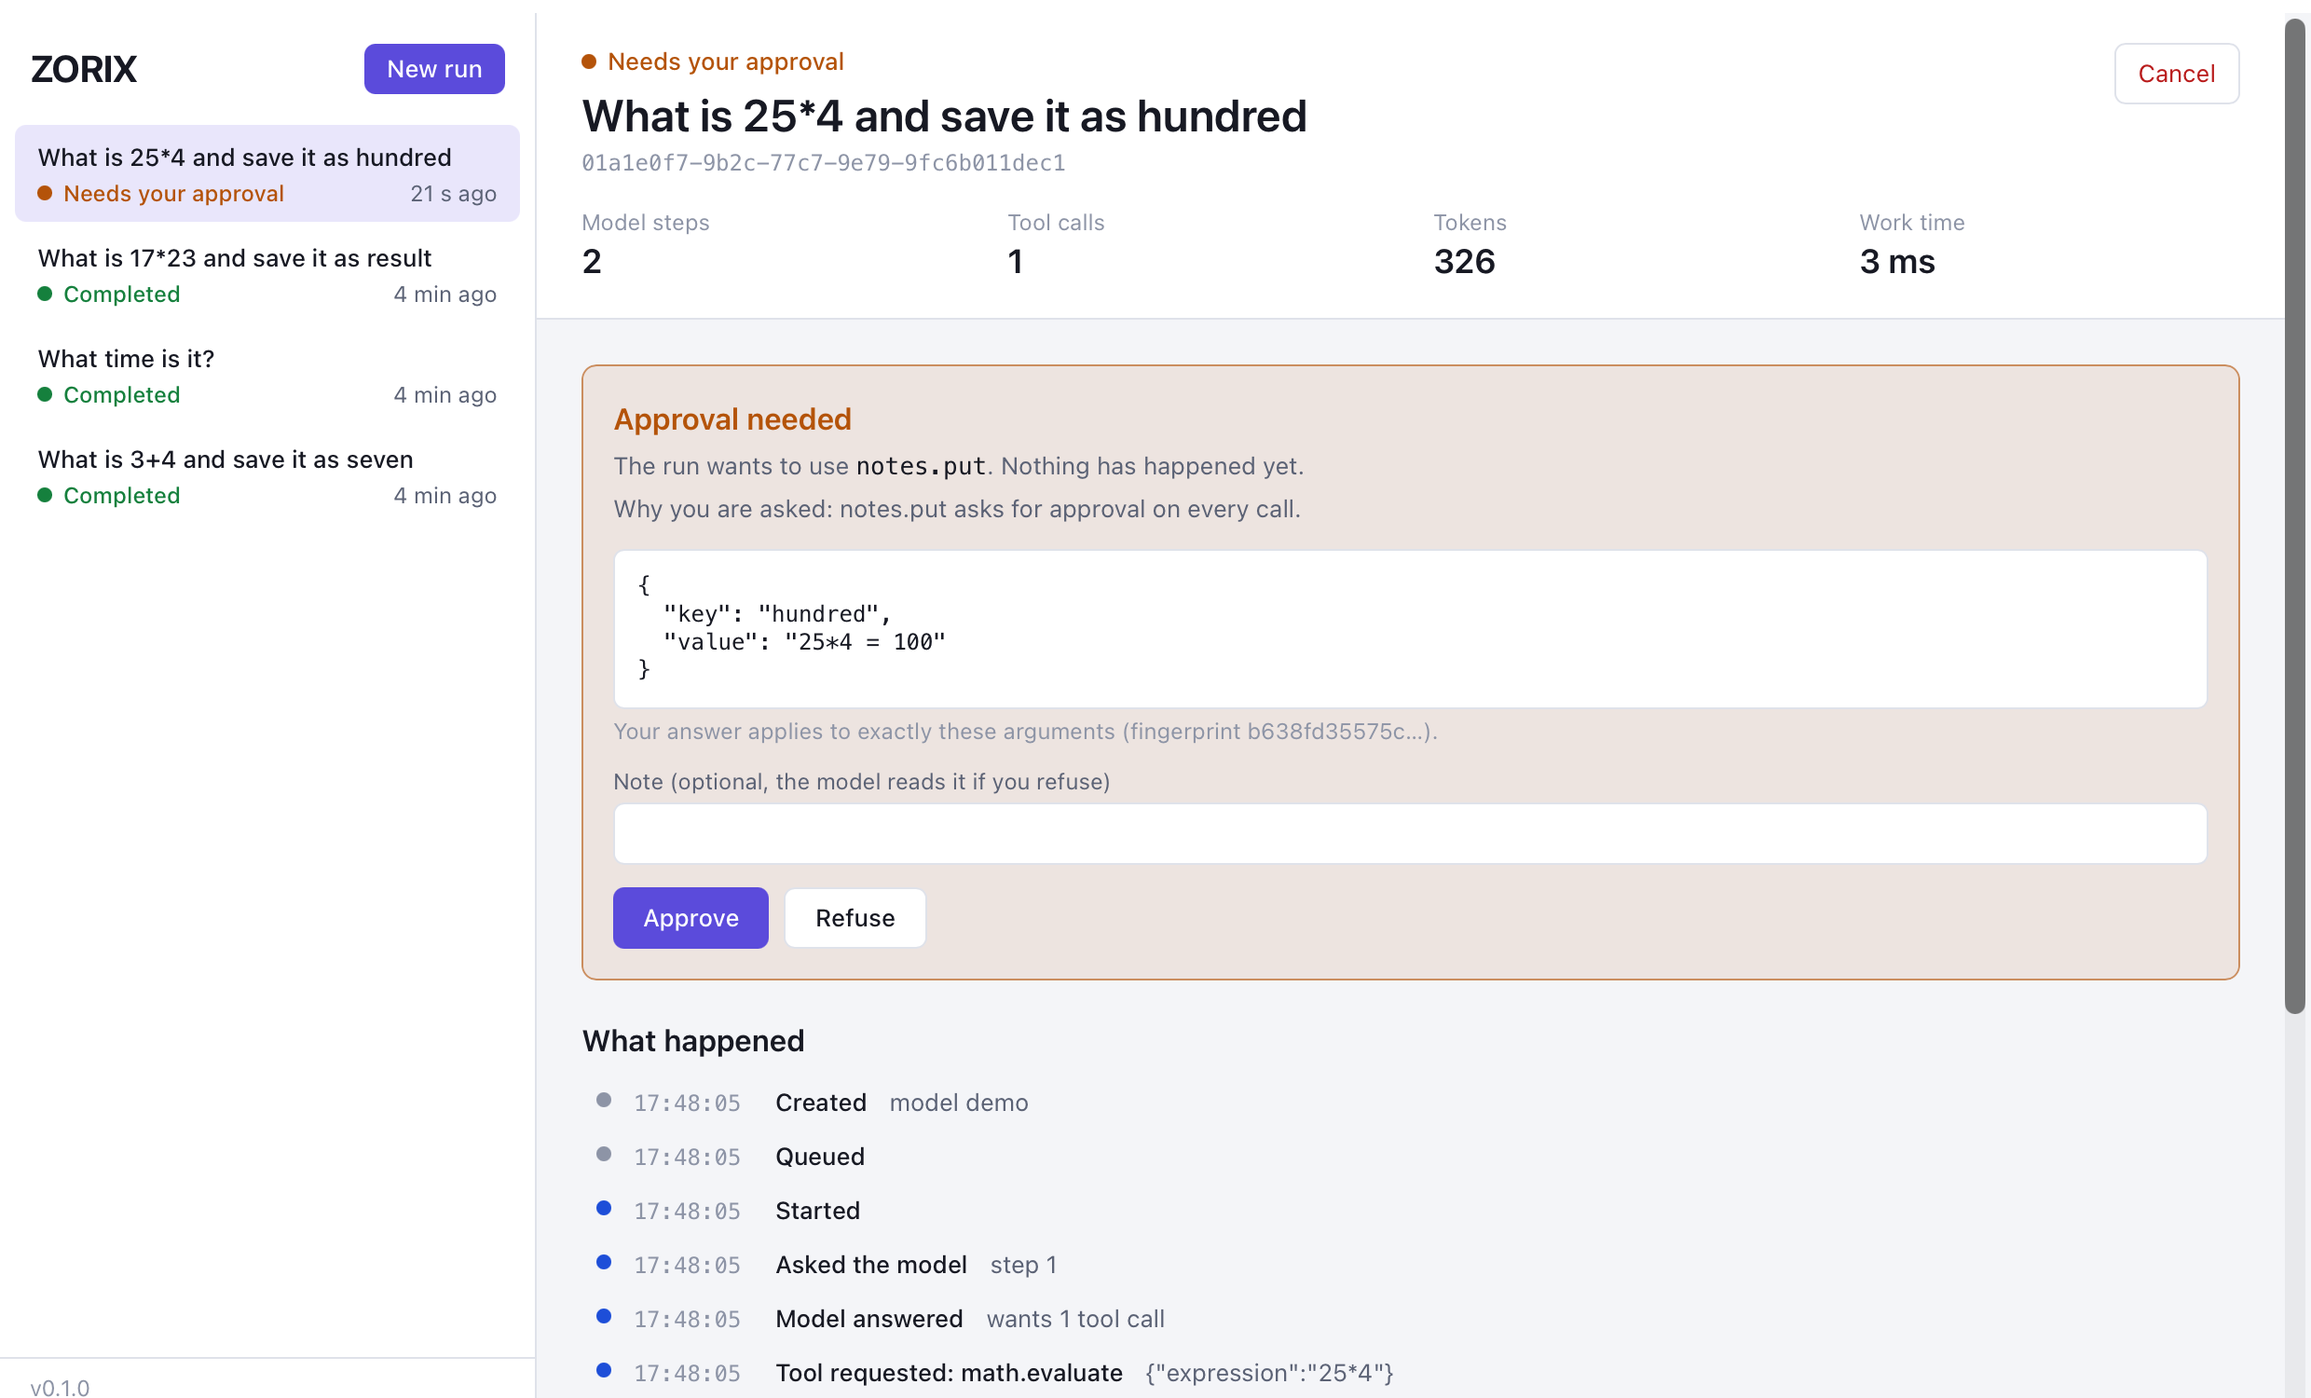
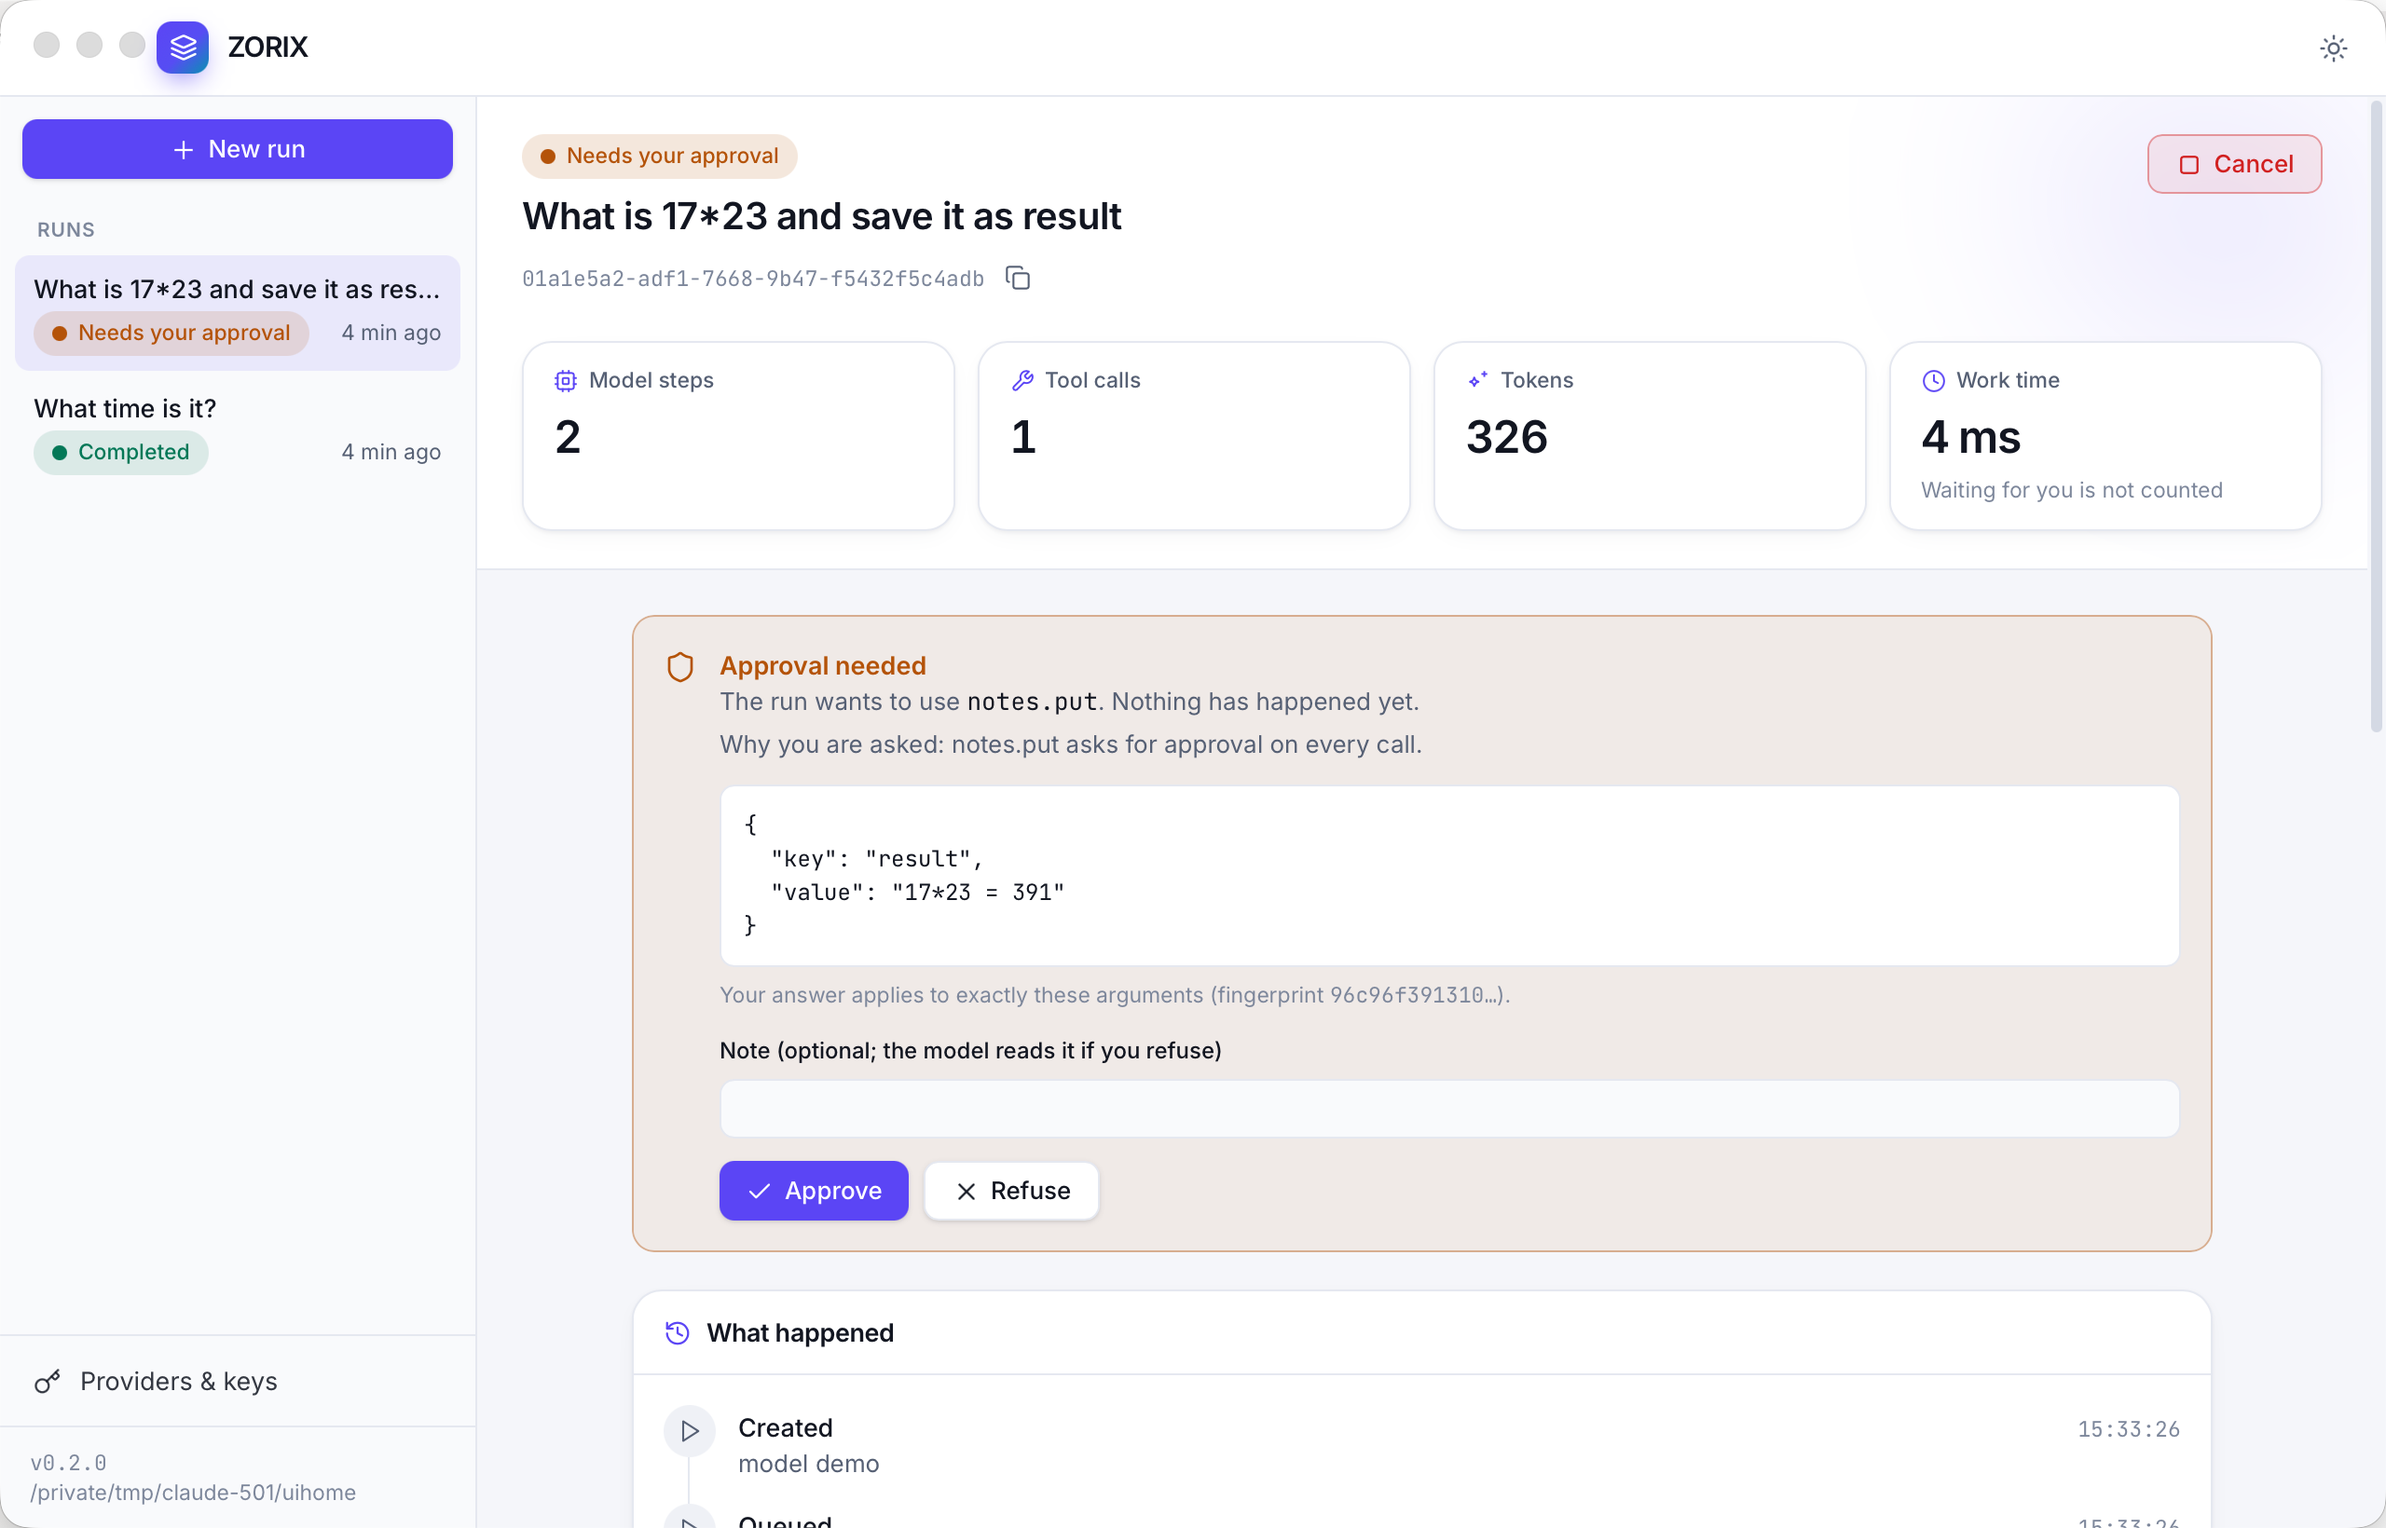
docs: refresh the desktop screenshots and add the providers screen
Taken from the running app with a throwaway data folder.

diff --git a/docs/desktop.md b/docs/desktop.md
@@ -20,6 +20,8 @@ nothing: it asks the engine and shows what comes back. Permissions, approvals an
 
 ![The new run form](images/ui-new-run.png)
 
+![Providers and keys](images/ui-providers.png)
+
 Nothing is allowed by default. The form preselects the demo tools that need only a tool permission; the file tools start
 off because they need a workspace. Tools that change things say **asks you first**.
 
